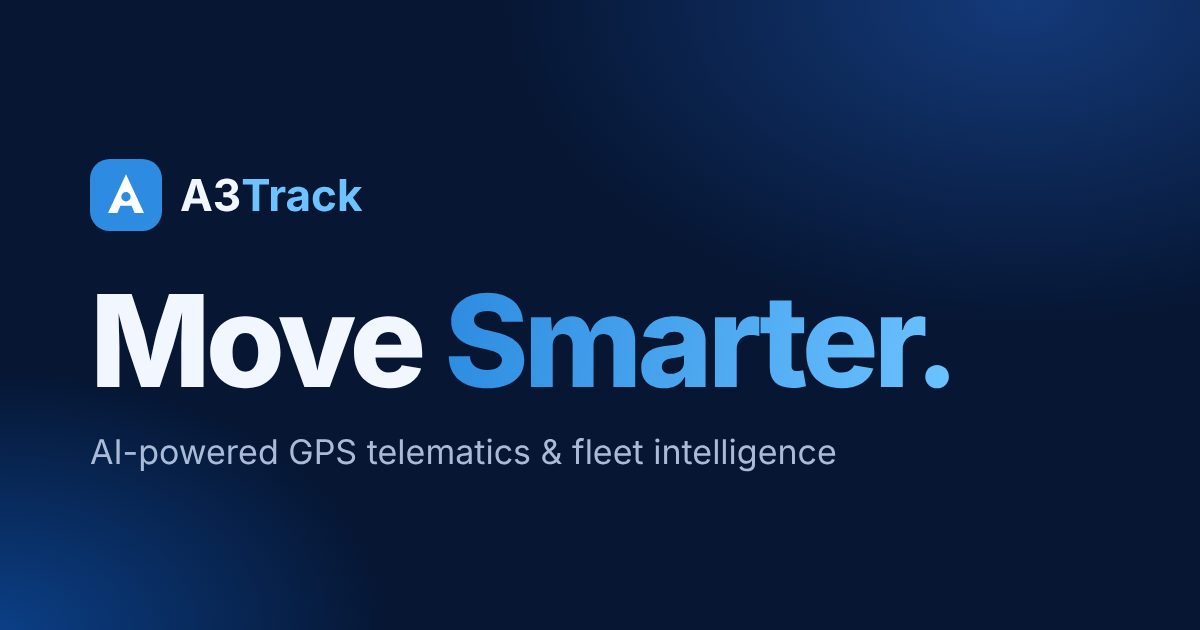
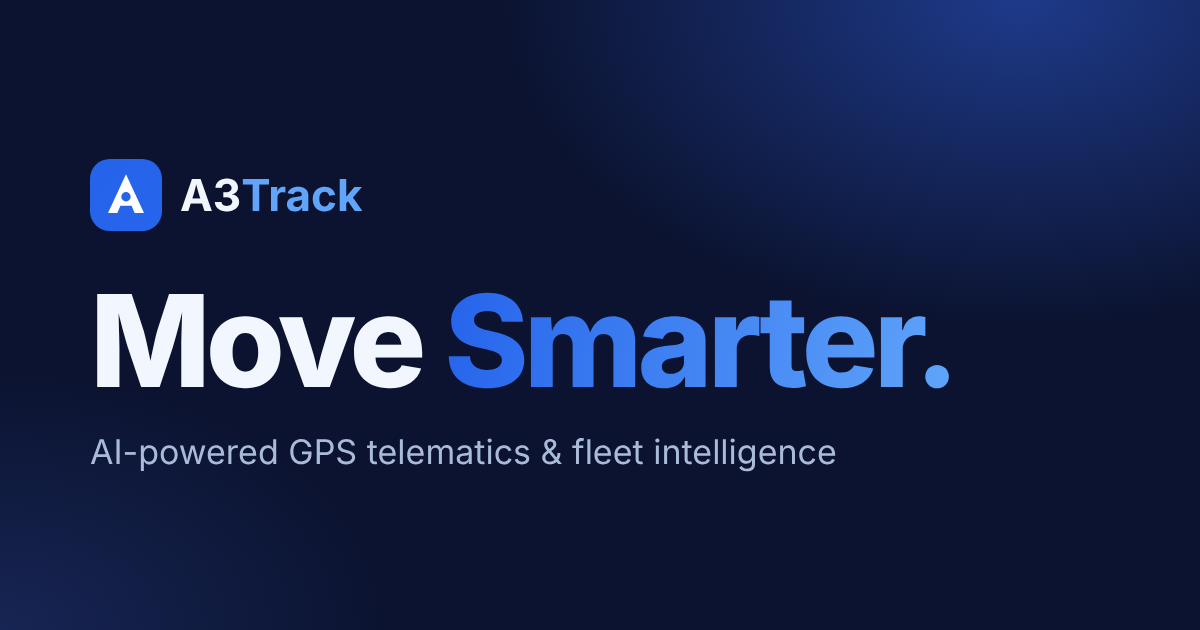
Use Apple-style typography and the singleqr.in blue
Typography: Apple's system font stack (San Francisco on Apple devices,
Inter elsewhere) with Apple-like sizes, weights and tracking for headings,
sub-headings and body text. Space Grotesk removed.

Colour: primary blue #2563eb with #1d4ed8 on hover, solid pill buttons,
white backgrounds and deep blue contrast areas.

Claude-Session: https://claude.ai/code/session_01Pwk81Ws7sqgPyKJt9TYN3C

diff --git a/src/styles/global.css b/src/styles/global.css
@@ -1,40 +1,40 @@
 @import '@fontsource-variable/inter';
-@import '@fontsource-variable/space-grotesk';
 
 :root {
   --bg: #ffffff;
-  --bg-2: #f4f7fc;
+  --bg-2: #f6f9ff;
   --surface: #ffffff;
-  --surface-2: #f4f7fc;
-  --line: rgba(10, 31, 68, 0.11);
-  --line-strong: rgba(10, 31, 68, 0.2);
-  --text: #0a1f44;
-  --muted: #4c5b78;
-  --blue: #0a2a66;
-  --blue-2: #0b5ea8;
-  --teal: #0b5ea8;
+  --surface-2: #f6f9ff;
+  --line: rgba(15, 23, 42, 0.11);
+  --line-strong: rgba(15, 23, 42, 0.2);
+  --text: #0f172a;
+  --muted: #475569;
+  --blue: #1d4ed8;
+  --blue-2: #2563eb;
+  --teal: #2563eb;
   --amber: #c9962a;
   --ok: #1f9d6e;
-  --sky: #3d8bef;
+  --sky: #93c5fd;
   --red: #d64550;
-  --grad: linear-gradient(100deg, #0a2a66 0%, #0b6fb8 100%);
-  --ink: #0a1f44;
-  --ink-muted: #4c5b78;
-  --paper: #e9f0f9;
-  --paper-line: #cfdcee;
+  --grad: linear-gradient(100deg, #1d4ed8 0%, #3b82f6 100%);
+  --ink: #0f172a;
+  --ink-muted: #475569;
+  --paper: #eff6ff;
+  --paper-line: #dbeafe;
   --radius: 16px;
   --radius-lg: 24px;
-  --shadow: 0 24px 60px -28px rgba(10, 31, 68, 0.35);
-  --font: 'Inter Variable', system-ui, -apple-system, 'Segoe UI', Roboto, sans-serif;
-  --display: 'Space Grotesk Variable', 'Inter Variable', system-ui, sans-serif;
+  --shadow: 0 24px 60px -28px rgba(15, 23, 42, 0.35);
+  /* Apple's San Francisco on Apple devices; Inter (its closest open equivalent) everywhere else. */
+  --font: -apple-system, BlinkMacSystemFont, 'SF Pro Text', 'Inter Variable', 'Helvetica Neue', Helvetica, Arial, sans-serif;
+  --display: -apple-system, BlinkMacSystemFont, 'SF Pro Display', 'Inter Variable', 'Helvetica Neue', Helvetica, Arial, sans-serif;
   --w: 1200px;
 }
 
 /* Deep-peacock surfaces: re-scope the tokens so text and lines stay legible. */
 .viz, .aipanel, .cta, .footer {
-  --text: #f1f6ff; --muted: #a9bbd8; --line: rgba(255, 255, 255, 0.1); --line-strong: rgba(255, 255, 255, 0.2);
-  --teal: #6cc3ff; --blue-2: #8fd0ff; --amber: #f0c463; --ok: #5fd3a0; --sky: #6cc3ff; --red: #ff7a85;
-  --grad: linear-gradient(100deg, #2c8be0 0%, #6cc3ff 100%);
+  --text: #f1f5ff; --muted: #b3c2e0; --line: rgba(255, 255, 255, 0.1); --line-strong: rgba(255, 255, 255, 0.2);
+  --teal: #93c5fd; --blue-2: #93c5fd; --amber: #f0c463; --ok: #5fd3a0; --sky: #60a5fa; --red: #ff7a85;
+  --grad: linear-gradient(100deg, #3b82f6 0%, #93c5fd 100%);
   color: var(--text);
 }
 
@@ -42,16 +42,16 @@
 html { scroll-behavior: smooth; -webkit-text-size-adjust: 100%; scroll-padding-top: 90px; }
 body {
   margin: 0; background: var(--bg); color: var(--text);
-  font: 400 1rem/1.65 var(--font); -webkit-font-smoothing: antialiased; overflow-x: hidden;
+  font: 400 1.0625rem/1.47 var(--font); letter-spacing: -0.011em; -webkit-font-smoothing: antialiased; overflow-x: hidden;
 }
 img, svg { max-width: 100%; display: block; }
 a { color: var(--blue-2); text-decoration: none; }
 a:hover { color: var(--teal); }
 :focus-visible { outline: 2px solid var(--teal); outline-offset: 3px; border-radius: 4px; }
-h1, h2, h3, h4 { font-family: var(--display); line-height: 1.12; letter-spacing: -0.02em; margin: 0 0 0.6em; font-weight: 600; text-wrap: balance; }
-h1 { font-size: clamp(2.3rem, 5.4vw, 4.1rem); }
-h2 { font-size: clamp(1.7rem, 3.4vw, 2.6rem); }
-h3 { font-size: 1.2rem; letter-spacing: -0.01em; }
+h1, h2, h3, h4 { font-family: var(--display); line-height: 1.08; letter-spacing: -0.022em; margin: 0 0 0.5em; font-weight: 600; text-wrap: balance; }
+h1 { font-size: clamp(2.4rem, 5.4vw, 4rem); line-height: 1.05; letter-spacing: -0.028em; }
+h2 { font-size: clamp(1.75rem, 3.6vw, 3rem); }
+h3 { font-size: 1.3rem; line-height: 1.2; letter-spacing: -0.015em; }
 p { margin: 0 0 1em; }
 ul { margin: 0; padding: 0; list-style: none; }
 
@@ -64,32 +64,28 @@ ul { margin: 0; padding: 0; list-style: none; }
 .section--light { background: var(--paper); color: var(--ink); }
 .section--light p, .section--light li { color: var(--ink-muted); }
 .section--light h2, .section--light h3 { color: var(--ink); }
-.section--light a:not(.btn) { color: #0b5ea8; }
+.section--light a:not(.btn) { color: #2563eb; }
 .center { text-align: center; }
 .head { max-width: 760px; margin-bottom: clamp(32px, 5vw, 56px); }
 .head.center { margin-inline: auto; }
-.lead { font-size: clamp(1.05rem, 1.6vw, 1.25rem); color: var(--muted); max-width: 62ch; }
+.lead { font-size: clamp(1.12rem, 1.7vw, 1.3125rem); line-height: 1.38; letter-spacing: -0.008em; color: var(--muted); max-width: 60ch; }
 .center .lead { margin-inline: auto; }
 .section--light .lead { color: var(--ink-muted); }
-.eyebrow {
-  display: inline-flex; align-items: center; gap: 8px; font: 600 0.78rem/1 var(--font);
-  letter-spacing: 0.14em; text-transform: uppercase; color: var(--teal); margin-bottom: 18px;
-}
-.eyebrow::before { content: ''; width: 22px; height: 2px; background: var(--grad); border-radius: 2px; }
-.section--light .eyebrow { color: #0b5ea8; }
+.eyebrow { display: block; font: 600 1.0625rem/1.2 var(--display); letter-spacing: -0.01em; color: var(--teal); margin-bottom: 12px; }
+.section--light .eyebrow { color: #2563eb; }
 .grad-text { background: var(--grad); -webkit-background-clip: text; background-clip: text; color: transparent; }
 
 /* Buttons */
 .btn {
   display: inline-flex; align-items: center; justify-content: center; gap: 8px;
-  padding: 13px 22px; border-radius: 999px; font: 600 0.96rem/1 var(--font);
+  padding: 13px 22px; border-radius: 999px; font: 500 1rem/1 var(--font); letter-spacing: -0.01em;
   border: 1px solid transparent; cursor: pointer; transition: transform .2s, box-shadow .2s, background .2s, border-color .2s; white-space: nowrap;
 }
-.btn--primary { background: var(--grad); color: #fff; box-shadow: 0 8px 24px -12px rgba(11, 94, 168, 0.55); }
-.btn--primary:hover { color: #fff; transform: translateY(-2px); box-shadow: 0 14px 30px -12px rgba(11, 111, 184, 0.55); }
+.btn--primary { background: #2563eb; color: #fff; box-shadow: 0 8px 24px -12px rgba(37, 99, 235, 0.55); }
+.btn--primary:hover { background: #1d4ed8; color: #fff; transform: translateY(-2px); box-shadow: 0 14px 30px -12px rgba(37, 99, 235, 0.55); }
 .btn--ghost { border-color: var(--line-strong); color: var(--text); background: rgba(255, 255, 255, 0.03); }
 .btn--ghost:hover { border-color: var(--teal); color: var(--text); }
-.section--light .btn--ghost { color: var(--ink); border-color: #c5d3e6; background: #fff; }
+.section--light .btn--ghost { color: var(--ink); border-color: #cbd5e1; background: #fff; }
 .btn--sm { padding: 10px 16px; font-size: 0.88rem; }
 .btn-row { display: flex; flex-wrap: wrap; gap: 12px; }
 .center .btn-row { justify-content: center; }
@@ -100,10 +96,10 @@ ul { margin: 0; padding: 0; list-style: none; }
 /* Header */
 .header { position: sticky; top: 0; z-index: 100; background: rgba(255, 255, 255, 0.86); backdrop-filter: blur(14px); -webkit-backdrop-filter: blur(14px); border-bottom: 1px solid var(--line); }
 .header__in { display: flex; align-items: center; justify-content: space-between; height: 70px; gap: 24px; }
-.logo { display: inline-flex; align-items: center; gap: 10px; color: var(--text); font: 700 1.35rem/1 var(--display); letter-spacing: -0.03em; }
+.logo { display: inline-flex; align-items: center; gap: 10px; color: var(--text); font: 600 1.35rem/1 var(--display); letter-spacing: -0.03em; }
 .logo:hover { color: var(--text); }
 .logo svg { width: 34px; height: 34px; }
-.logo b { font-weight: 700; background: var(--grad); -webkit-background-clip: text; background-clip: text; color: transparent; }
+.logo b { font-weight: 600; background: var(--grad); -webkit-background-clip: text; background-clip: text; color: transparent; }
 .nav { display: flex; align-items: center; gap: 4px; }
 .nav__item { position: relative; }
 .nav__link { display: inline-flex; align-items: center; gap: 6px; padding: 10px 14px; color: var(--text); font-weight: 500; font-size: 0.95rem; background: none; border: 0; cursor: pointer; font-family: inherit; border-radius: 8px; }
@@ -113,8 +109,8 @@ ul { margin: 0; padding: 0; list-style: none; }
 .mega--wide { width: min(92vw, 640px); display: grid; grid-template-columns: 1fr 1fr; gap: 2px; }
 .nav__item:hover .mega, .nav__item:focus-within .mega { opacity: 1; visibility: visible; transform: translate(-50%, 0); }
 .mega a { display: flex; gap: 12px; align-items: flex-start; padding: 10px 12px; border-radius: 10px; color: var(--text); }
-.mega a:hover { background: rgba(11, 94, 168, 0.1); color: var(--text); }
-.mega a .ico { flex: none; width: 34px; height: 34px; border-radius: 9px; background: rgba(11, 94, 168, 0.14); display: grid; place-items: center; color: var(--teal); }
+.mega a:hover { background: rgba(37, 99, 235, 0.1); color: var(--text); }
+.mega a .ico { flex: none; width: 34px; height: 34px; border-radius: 9px; background: rgba(37, 99, 235, 0.14); display: grid; place-items: center; color: var(--teal); }
 .mega a .ico svg { width: 18px; height: 18px; }
 .mega strong { display: block; font-size: 0.93rem; font-weight: 600; line-height: 1.3; }
 .mega small { display: block; color: var(--muted); font-size: 0.8rem; line-height: 1.35; margin-top: 2px; }
@@ -140,22 +136,22 @@ ul { margin: 0; padding: 0; list-style: none; }
 .g3 { grid-template-columns: repeat(auto-fit, minmax(min(100%, 300px), 1fr)); }
 .g4 { grid-template-columns: repeat(auto-fit, minmax(min(100%, 230px), 1fr)); }
 .card {
-  position: relative; background: #fff; box-shadow: 0 12px 32px -26px rgba(10, 31, 68, 0.45);
+  position: relative; background: #fff; box-shadow: 0 12px 32px -26px rgba(15, 23, 42, 0.45);
   border: 1px solid var(--line); border-radius: var(--radius); padding: 26px; color: var(--text);
   transition: transform .25s, border-color .25s, box-shadow .25s; display: block; height: 100%;
 }
-a.card:hover { transform: translateY(-4px); border-color: rgba(11, 94, 168, 0.45); color: var(--text); box-shadow: 0 24px 50px -28px rgba(10, 31, 68, 0.4); }
+a.card:hover { transform: translateY(-4px); border-color: rgba(37, 99, 235, 0.45); color: var(--text); box-shadow: 0 24px 50px -28px rgba(15, 23, 42, 0.4); }
 .card p { color: var(--muted); margin: 0; font-size: 0.96rem; }
 .card h3 { margin-bottom: 8px; }
-.card .ico { width: 46px; height: 46px; border-radius: 12px; display: grid; place-items: center; margin-bottom: 18px; color: var(--teal); background: rgba(11, 94, 168, 0.1); border: 1px solid var(--line); }
+.card .ico { width: 46px; height: 46px; border-radius: 12px; display: grid; place-items: center; margin-bottom: 18px; color: var(--teal); background: rgba(37, 99, 235, 0.1); border: 1px solid var(--line); }
 .card .ico svg { width: 22px; height: 22px; }
 .card .more { display: inline-block; margin-top: 14px; font-weight: 600; font-size: 0.9rem; color: var(--blue-2); }
 .section--light .card { background: #fff; border-color: var(--paper-line); color: var(--ink); box-shadow: 0 10px 30px -22px rgba(22, 24, 29, 0.35); }
 .section--light .card p { color: var(--ink-muted); }
-.section--light .card .ico { color: #0b5ea8; background: #e3eefb; border-color: #c5d9f0; }
-.section--light a.card:hover { color: var(--ink); border-color: #0b5ea8; }
+.section--light .card .ico { color: #2563eb; background: #eff6ff; border-color: #bfdbfe; }
+.section--light a.card:hover { color: var(--ink); border-color: #2563eb; }
 .num { font: 700 0.85rem/1 var(--display); color: var(--teal); width: 36px; height: 36px; border-radius: 50%; border: 1px solid var(--line-strong); display: grid; place-items: center; margin-bottom: 16px; }
-.section--light .num { color: #0b5ea8; border-color: #c5d3e6; }
+.section--light .num { color: #2563eb; border-color: #cbd5e1; }
 .chip { display: inline-flex; align-items: center; gap: 8px; padding: 8px 14px; border-radius: 999px; border: 1px solid var(--line-strong); color: var(--text); font-size: 0.9rem; font-weight: 500; background: rgba(255, 255, 255, 0.03); }
 .chip svg { width: 16px; height: 16px; color: var(--teal); }
 a.chip:hover { border-color: var(--teal); color: var(--text); }
@@ -165,17 +161,17 @@ a.chip:hover { border-color: var(--teal); color: var(--text); }
 .split { display: grid; grid-template-columns: repeat(auto-fit, minmax(min(100%, 440px), 1fr)); gap: clamp(32px, 6vw, 80px); align-items: center; }
 
 /* Answer box (AEO) */
-.answer { border: 1px solid var(--line-strong); border-left: 4px solid var(--teal); border-radius: var(--radius); padding: 28px clamp(20px, 4vw, 36px); background: rgba(11, 94, 168, 0.05); }
+.answer { border: 1px solid var(--line-strong); border-left: 4px solid var(--teal); border-radius: var(--radius); padding: 28px clamp(20px, 4vw, 36px); background: rgba(37, 99, 235, 0.05); }
 .answer h2 { font-size: clamp(1.3rem, 2.4vw, 1.7rem); margin-bottom: 12px; }
 .answer p { margin: 0; font-size: 1.08rem; color: var(--text); }
-.section--light .answer { background: #fff; border-color: var(--paper-line); border-left-color: #0b5ea8; }
+.section--light .answer { background: #fff; border-color: var(--paper-line); border-left-color: #2563eb; }
 .section--light .answer p { color: var(--ink); }
 
 /* Page hero */
 .phero { position: relative; padding: clamp(56px, 8vw, 110px) 0 clamp(48px, 7vw, 90px); overflow: hidden; }
 .phero::before { content: ''; position: absolute; inset: 0; background:
-  radial-gradient(700px 380px at 85% -10%, rgba(11, 94, 168, 0.14), transparent 65%),
-  radial-gradient(600px 340px at 5% 110%, rgba(11, 94, 168, 0.08), transparent 65%); pointer-events: none; }
+  radial-gradient(700px 380px at 85% -10%, rgba(37, 99, 235, 0.14), transparent 65%),
+  radial-gradient(600px 340px at 5% 110%, rgba(37, 99, 235, 0.08), transparent 65%); pointer-events: none; }
 .phero::after { content: ''; position: absolute; inset: 0; background-image: linear-gradient(var(--line) 1px, transparent 1px), linear-gradient(90deg, var(--line) 1px, transparent 1px); background-size: 56px 56px; mask-image: radial-gradient(ellipse at 70% 0%, #000 0%, transparent 70%); -webkit-mask-image: radial-gradient(ellipse at 70% 0%, #000 0%, transparent 70%); opacity: .5; pointer-events: none; }
 .phero .container { position: relative; z-index: 1; }
 .phero h1 { max-width: 20ch; font-size: clamp(2.1rem, 4.6vw, 3.5rem); }
@@ -189,27 +185,27 @@ a.chip:hover { border-color: var(--teal); color: var(--text); }
 .faq { max-width: 860px; margin-inline: auto; }
 .faq details { border-bottom: 1px solid var(--line); }
 .section--light .faq details { border-color: var(--paper-line); }
-.faq summary { cursor: pointer; list-style: none; padding: 20px 40px 20px 0; position: relative; font: 600 1.08rem/1.4 var(--display); }
+.faq summary { cursor: pointer; list-style: none; padding: 20px 40px 20px 0; position: relative; font: 600 1.12rem/1.35 var(--display); letter-spacing: -0.015em; }
 .faq summary::-webkit-details-marker { display: none; }
 .faq summary::after { content: '+'; position: absolute; right: 4px; top: 50%; transform: translateY(-50%); font-size: 1.5rem; font-weight: 400; color: var(--teal); transition: transform .2s; }
 .faq details[open] summary::after { transform: translateY(-50%) rotate(45deg); }
 .faq .faq__a { padding: 0 0 22px; color: var(--muted); max-width: 72ch; }
 .section--light .faq .faq__a { color: var(--ink-muted); }
-.section--light .faq summary::after { color: #0b5ea8; }
+.section--light .faq summary::after { color: #2563eb; }
 
 /* CTA band */
-.cta { position: relative; border-radius: var(--radius-lg); padding: clamp(36px, 6vw, 72px); overflow: hidden; background: linear-gradient(120deg, #0a2a66 0%, #0b5ea8 100%); border: 1px solid var(--line-strong); text-align: center; }
-.cta::before { content: ''; position: absolute; inset: 0; background: radial-gradient(500px 240px at 50% 0%, rgba(11, 94, 168, 0.14), transparent 70%); }
+.cta { position: relative; border-radius: var(--radius-lg); padding: clamp(36px, 6vw, 72px); overflow: hidden; background: linear-gradient(120deg, #1e3a8a 0%, #2563eb 100%); border: 1px solid var(--line-strong); text-align: center; }
+.cta::before { content: ''; position: absolute; inset: 0; background: radial-gradient(500px 240px at 50% 0%, rgba(37, 99, 235, 0.14), transparent 70%); }
 .cta > * { position: relative; }
 .cta h2 { max-width: 20ch; margin-inline: auto; }
-.cta p { color: #d5e3f7; max-width: 56ch; margin: 0 auto 26px; }
+.cta p { color: #dbeafe; max-width: 56ch; margin: 0 auto 26px; }
 
 /* Footer */
-.footer { border-top: 1px solid var(--line); background: #061633; padding: 64px 0 28px; font-size: 0.92rem; }
+.footer { border-top: 1px solid var(--line); background: #0b1330; padding: 64px 0 28px; font-size: 0.92rem; }
 .footer__grid { display: grid; grid-template-columns: 1.4fr repeat(4, 1fr); gap: 36px; }
 .footer h2 { font: 600 0.8rem/1 var(--font); letter-spacing: 0.12em; text-transform: uppercase; color: var(--muted); margin-bottom: 16px; }
 .footer li { margin-bottom: 9px; }
-.footer a { color: #cfdcf0; }
+.footer a { color: #cfd9ee; }
 .footer a:hover { color: var(--teal); }
 .footer p, .footer address { color: var(--muted); font-style: normal; }
 .footer__bottom { display: flex; flex-wrap: wrap; gap: 12px 24px; justify-content: space-between; border-top: 1px solid var(--line); margin-top: 44px; padding-top: 22px; color: var(--muted); font-size: 0.85rem; }
@@ -221,17 +217,17 @@ a.chip:hover { border-color: var(--teal); color: var(--text); }
 .prose { max-width: 740px; margin-inline: auto; font-size: 1.07rem; }
 .prose h2 { font-size: clamp(1.45rem, 2.6vw, 1.9rem); margin-top: 1.9em; }
 .prose h3 { font-size: 1.22rem; margin-top: 1.6em; }
-.prose p, .prose li { color: #33435e; }
+.prose p, .prose li { color: #334155; }
 .prose ul, .prose ol { padding-left: 1.3em; margin: 0 0 1.2em; }
 .prose ul { list-style: disc; } .prose ol { list-style: decimal; }
 .prose li { margin-bottom: .5em; }
 .prose strong { color: var(--text); }
-.prose blockquote { margin: 1.5em 0; padding: 18px 24px; border-left: 4px solid var(--teal); background: rgba(11, 94, 168, 0.06); border-radius: 0 12px 12px 0; }
+.prose blockquote { margin: 1.5em 0; padding: 18px 24px; border-left: 4px solid var(--teal); background: rgba(37, 99, 235, 0.06); border-radius: 0 12px 12px 0; }
 .prose blockquote p { margin: 0; color: var(--text); }
 .prose table { width: 100%; border-collapse: collapse; margin: 1.5em 0; font-size: 0.95rem; display: block; overflow-x: auto; }
 .prose th, .prose td { text-align: left; padding: 12px 14px; border-bottom: 1px solid var(--line); }
 .prose th { color: var(--text); font-weight: 600; background: var(--surface); }
-.prose td { color: #33435e; }
+.prose td { color: #334155; }
 .prose a { text-decoration: underline; text-underline-offset: 3px; }
 
 /* Forms */
@@ -240,7 +236,7 @@ a.chip:hover { border-color: var(--teal); color: var(--text); }
 @media (max-width: 600px) { .form .row { grid-template-columns: 1fr; } }
 .field label { display: block; font-size: 0.86rem; font-weight: 600; margin-bottom: 6px; color: var(--text); }
 .field input, .field select, .field textarea { width: 100%; padding: 13px 14px; border-radius: 10px; border: 1px solid var(--line-strong); background: #fff; color: var(--text); font: inherit; }
-.field input:focus, .field select:focus, .field textarea:focus { outline: none; border-color: var(--teal); box-shadow: 0 0 0 3px rgba(11, 94, 168, 0.18); }
+.field input:focus, .field select:focus, .field textarea:focus { outline: none; border-color: var(--teal); box-shadow: 0 0 0 3px rgba(37, 99, 235, 0.18); }
 .field textarea { min-height: 110px; resize: vertical; }
 .hp { position: absolute; left: -9999px; width: 1px; height: 1px; overflow: hidden; }
 .form__note { font-size: 0.82rem; color: var(--muted); }
@@ -259,3 +255,6 @@ a.chip:hover { border-color: var(--teal); color: var(--text); }
 
 .cta .btn--ghost, .footer .btn--ghost { color: #fff; background: rgba(255, 255, 255, 0.08); }
 .skip { background: var(--text); color: #fff; }
+
+.cta .btn--primary { background: #fff; color: #1d4ed8; }
+.cta .btn--primary:hover { background: #eff6ff; color: #1d4ed8; }
